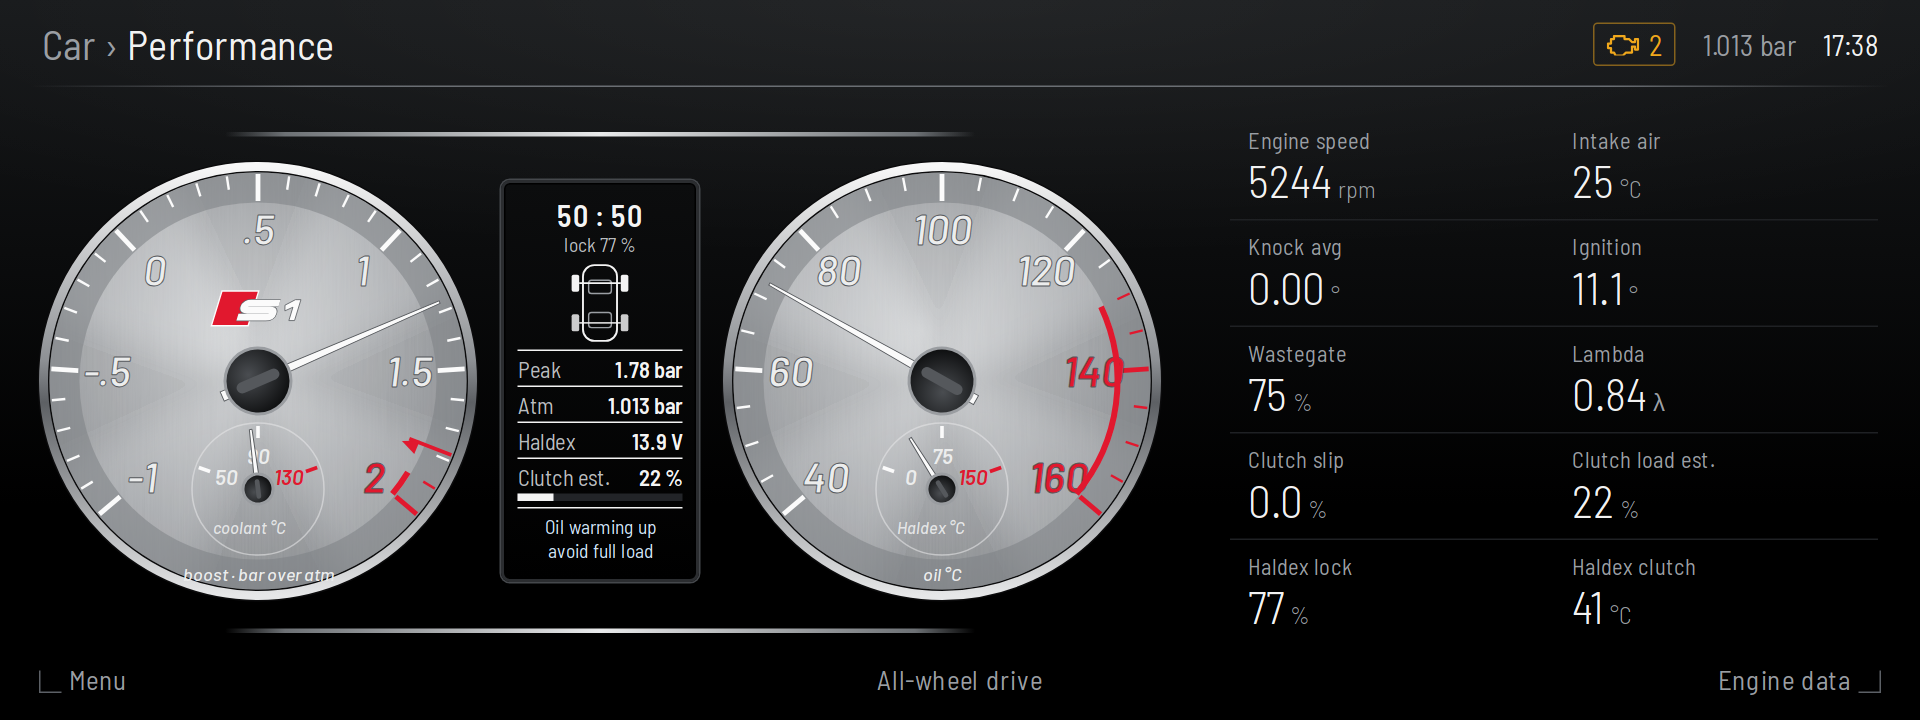
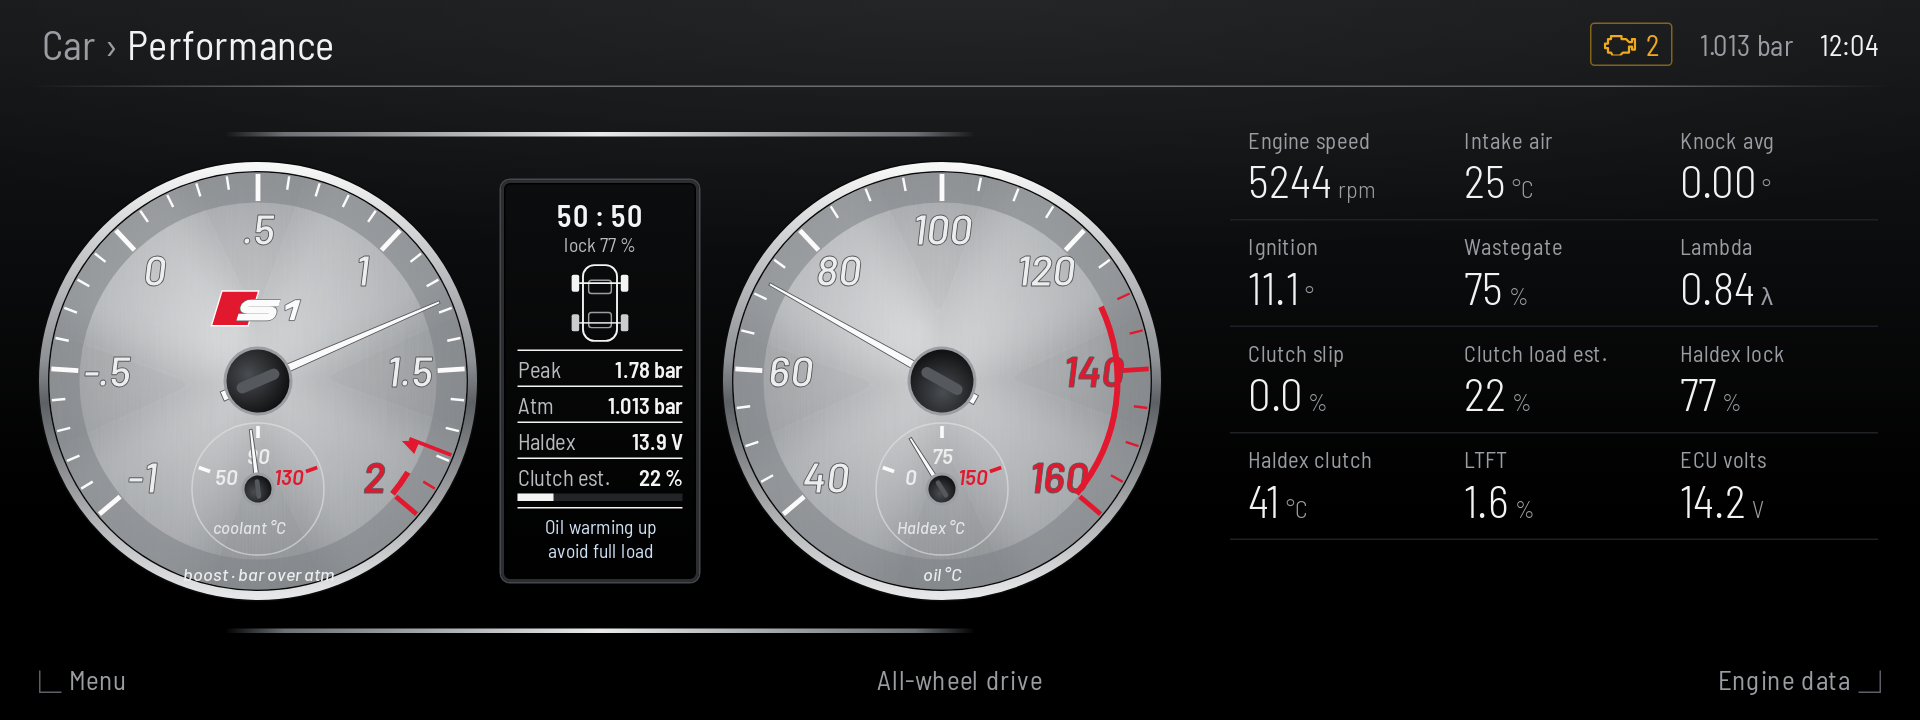
Fit any screen shape, add finer boost steps and show when SimosTools has the dongle
16:10 and 4:3 screens rendered wider than the screen, cutting off the right
dial, and tile panels scrolled on portrait and wide screens. It now uses the
largest size that fits both ways, with a manual Screen size setting.

The expected peak boost moves in 0.01 steps as well as 0.1. When SimosTools holds
the dongle the header says so, and S1 Dash stops retrying until it's free.

CI now syntax-checks the UI script, because a broken one still passes the unit
tests and builds an APK with a blank screen.

diff --git a/app/src/main/assets/ui/app.js b/app/src/main/assets/ui/app.js
@@ -9,7 +9,7 @@
 
   function demoBridge() {
     var settings = { theme: "s1", ohEnabled: "1", ohHost: "192.168.1.1", ecuAdapter: "bridge", ecuMac: "",
-      bridgeName: "BLE_TO_ISOTP20", dtcIndicator: "1", boostTarget: "1.8", demo: "1" };
+      bridgeName: "BLE_TO_ISOTP20", dtcIndicator: "1", boostTarget: "1.8", demo: "1", uiScale: "100" };
     try { var saved = JSON.parse(localStorage.getItem("s1demo") || "{}"); for (var k in saved) settings[k] = saved[k]; } catch (e) {}
     var q = location.search.replace("?", "").split("&");
     q.forEach(function (p) { var kv = p.split("="); if (kv[0] && kv[0] in settings) settings[kv[0]] = decodeURIComponent(kv[1] || ""); });
@@ -31,7 +31,7 @@
           torque: 60 + pull * 310, clutchSlip: demoSlip ? 8 : 0, clutchLoad: demoSlip ? 94 : 22, clutchWarn: demoSlip ? 1 : 0,
           hxMode: 2, hxLock: 30 + pull * 60, hxLockTarget: 30 + pull * 65, hxClutchTemp: Math.min(70, 30 + t * 0.15 + pull * 6),
           hxModuleTemp: 24, hxFinTemp: 22, hxVolts: 13.9, hxTempProt: 0, dtcEcu: 2, dtcHaldex: 0 };
-        return JSON.stringify({ v: v, s: { oh: "demo", ecu: /[?&]elm/.test(location.search) ? "connected (ELM327)" : "demo", ecuData: /[?&]elm/.test(location.search) ? "core" : undefined, ecuRate: /[?&]elm/.test(location.search) ? "3.2" : undefined },  peak: /[?&]still/.test(location.search) ? 1.78 : peak, logging: logging, t: Date.now() });
+        return JSON.stringify({ v: v, s: { oh: "demo", simos: /[?&]simos/.test(location.search) ? "connected" : undefined, ecu: /[?&]simos/.test(location.search) ? "in use by SimosTools" : /[?&]elm/.test(location.search) ? "connected (ELM327)" : "demo", ecuData: /[?&]elm/.test(location.search) ? "core" : undefined, ecuRate: /[?&]elm/.test(location.search) ? "3.2" : undefined },  peak: /[?&]still/.test(location.search) ? 1.78 : peak, logging: logging, t: Date.now() });
       },
       settings: function () { return JSON.stringify(settings); },
       setSetting: function (k, v) { settings[k] = v; try { localStorage.setItem("s1demo", JSON.stringify(settings)); } catch (e) {} },
@@ -77,36 +77,44 @@
   var snap = { v: {}, s: {}, peak: 0 };
   var MODES = ["Stock", "FWD", "50 : 50", "60 : 40", "75 : 25", "Expert"];
 
-  // ---------- stage scaling: 480 logical px tall in landscape, 800 wide in portrait ----------
+  // ---------- stage scaling: the largest size at which 800 x 480 logical px fits, then fill what's left ----------
   var W = 800, H = 480;
   function layout() {
-    var sw = window.innerWidth, sh = window.innerHeight, aspect = sw / sh, scale;
-    if (aspect >= 1.25) { H = 480; W = Math.max(800, Math.round(480 * aspect)); scale = sh / 480; }
-    else { W = 800; H = Math.max(480, Math.round(800 / aspect)); scale = sw / 800; }
+    var sw = window.innerWidth, sh = window.innerHeight;
+    if (!sw || !sh) return; // a WebView can report nothing until it's laid out; resize comes after
+    var scale = Math.min(sw / 800, sh / 480) * (parseInt(settings.uiScale, 10) || 100) / 100;
+    W = Math.floor(sw / scale); H = Math.floor(sh / scale);
     var st = $("stage");
     st.style.width = W + "px"; st.style.height = H + "px";
     st.style.transform = "scale(" + scale + ")";
     var cl = $("cluster"), stats = $("perf-stats");
     stats.className = "stats";
+    cl.style.top = (58 + Math.max(0, Math.round((H - 480) / 2))) + "px";
     if (W >= 1100) {
       cl.style.left = "0px";
       stats.className = "stats on";
       stats.style.cssText = "left:820px;right:28px;top:76px;bottom:54px;overflow-y:auto";
-      setTileWidth("perf-tiles", W - 848 > 520 ? "33.33%" : "50%");
-      if (current) pushFocus();
+      if ($("perf-tiles").children.length !== PERF_KEYS.length) buildTiles("perf-tiles", PERF_KEYS);
+      fitTiles("perf-tiles", W - 848, H - 130);
     } else if (H >= 700) {
       // Portrait or tall screens: the whole engine data set under the cluster.
       cl.style.left = Math.round((W - 800) / 2) + "px";
+      cl.style.top = "58px";
       stats.className = "stats on";
       stats.style.cssText = "left:28px;right:28px;top:450px;bottom:54px;overflow-y:auto";
       if ($("perf-tiles").children.length !== ENGINE_KEYS.length) buildTiles("perf-tiles", ENGINE_KEYS);
-      setTileWidth("perf-tiles", "33.33%");
-      if (current) pushFocus();
+      fitTiles("perf-tiles", W - 56, H - 504);
     } else {
       cl.style.left = Math.round((W - 800) / 2) + "px";
-      if (current) pushFocus();
     }
+    if (current) pushFocus();
     setTileWidth("eng-tiles", W >= 1300 ? "20%" : W >= 1000 ? "25%" : H >= 700 ? "33.33%" : "25%");
+  }
+  // Enough columns that all the tiles fit, unless they'd get too narrow to read.
+  function fitTiles(id, w, h) {
+    var n = $(id).children.length, cols = 2;
+    while (Math.ceil(n / cols) * TILE_H > h && w / (cols + 1) >= TILE_MIN_W) cols++;
+    setTileWidth(id, (100 / cols).toFixed(2) + "%");
   }
   function setTileWidth(id, w) {
     var t = $(id).children;
@@ -277,6 +285,7 @@
   var ENGINE_KEYS = ["boost", "map", "mapSp", "ambient", "rpm", "iat", "coolant", "oil", "knockAvg", "knock1", "knock2", "knock3", "knock4",
     "timing", "wastegate", "put", "afr", "lambda", "stft", "ltft", "fpDi", "fpMpi", "pedal", "battery", "ecuSpeed", "gear", "torque", "clutchSlip", "clutchLoad", "misfires", "turbo",
     "hxLock", "hxLockTarget", "hxClutchTemp", "hxModuleTemp", "hxVolts"];
+  var TILE_H = 72, TILE_MIN_W = 140;
   var PERF_KEYS = ["rpm", "iat", "knockAvg", "timing", "wastegate", "lambda", "clutchSlip", "clutchLoad", "hxLock", "hxClutchTemp", "ltft", "battery"];
 
   function buildTiles(id, keys) {
@@ -383,6 +392,9 @@
     var total = dtcTotal(), show = settings.dtcIndicator === "1" && total;
     var dt = document.querySelectorAll(".dtc");
     for (i = 0; i < dt.length; i++) { dt[i].className = "dtc" + (show ? " show" : ""); dt[i].innerHTML = show ? DTC_ICON + total : ""; }
+    var st = snap.s.simos ? "SimosTools connected" : snap.s.ecu === "paused for SimosTools" ? "SimosTools open" : "";
+    var si = document.querySelectorAll(".simos");
+    for (i = 0; i < si.length; i++) { si[i].textContent = st; si[i].style.display = st ? "block" : "none"; }
     var amb = document.querySelectorAll(".amb"), a = snap.v.ambientBar;
     for (i = 0; i < amb.length; i++) amb[i].textContent = a !== undefined ? a.toFixed(3) + " bar" : "";
   }
@@ -576,8 +588,11 @@
       return '<div class="row" data-set="' + key + '" data-val="' + (on ? "0" : "1") + '"><span class="box' + (on ? " on" : "") + '"></span>' + label + (sub ? '<span class="sub">' + sub + "</span>" : "") + "</div>";
     }
     h += '<div class="row head">Display theme</div>' + radio("theme", "s1", "S1 cluster", "silver") + radio("theme", "quattro", "A1 quattro", "red / black") + radio("theme", "mmi", "MMI black");
+    h += '<div class="row head">Screen size</div>' + radio("uiScale", "100", "Auto fit", "largest that fits this screen") +
+      radio("uiScale", "90", "90 %") + radio("uiScale", "80", "80 %", "more data on bigger screens") + radio("uiScale", "70", "70 %");
     h += '<div class="row head">Dials</div>' + toggle("dtcIndicator", "Fault code indicator", "amber engine light in the header") +
-      '<div class="row">Expected peak boost<span class="val">' + settings.boostTarget + ' bar</span><span class="btn" id="bt-down">−</span><span class="btn" id="bt-up">+</span></div>';
+      '<div class="row">Expected peak boost<span class="val">' + (parseFloat(settings.boostTarget) || 1.8).toFixed(2) + ' bar</span>' +
+      [-0.1, -0.01, 0.01, 0.1].map(function (d) { return '<span class="btn" data-step="' + d + '">' + (d < 0 ? "−" : "+") + Math.abs(d) + "</span>"; }).join("") + "</div>";
     var gears = [];
     try { gears = JSON.parse(B.clutchInfo()).gears; } catch (e) {}
     h += '<div class="row head">Clutch estimate (manual gearbox, no real sensor)</div>' +
@@ -599,15 +614,16 @@
       var k = this.getAttribute("data-set"), val = this.getAttribute("data-val");
       B.setSetting(k, val); settings[k] = val;
       if (k === "theme" || k === "boostTarget") buildDials();
+      if (k === "uiScale") layout();
       renderSettings();
     };
     $("oh-host").onchange = function () { B.setSetting("ohHost", this.value.trim()); };
     function stepBoost(d) {
-      var x = Math.max(0.5, Math.min(1.9, Math.round(((parseFloat(settings.boostTarget) || 1.8) + d) * 10) / 10));
-      B.setSetting("boostTarget", x.toFixed(1)); settings.boostTarget = x.toFixed(1); buildDials(); renderSettings();
+      var x = Math.max(0.5, Math.min(1.9, Math.round(((parseFloat(settings.boostTarget) || 1.8) + d) * 100) / 100));
+      B.setSetting("boostTarget", x.toFixed(2)); settings.boostTarget = x.toFixed(2); buildDials(); renderSettings();
     }
-    $("bt-down").onclick = function (e) { e.stopPropagation(); stepBoost(-0.1); };
-    $("bt-up").onclick = function (e) { e.stopPropagation(); stepBoost(0.1); };
+    var steps = document.querySelectorAll("#set-list [data-step]");
+    for (i = 0; i < steps.length; i++) steps[i].onclick = function (e) { e.stopPropagation(); stepBoost(parseFloat(this.getAttribute("data-step"))); };
     $("pick-dev").onclick = function (e) { e.stopPropagation(); pickDevice(); };
     $("clear-dev").onclick = function (e) { e.stopPropagation(); B.setSetting("ecuMac", ""); renderSettings(); };
     $("set-simos").onclick = openSimos;
@@ -674,6 +690,10 @@
   }
 
   // ---------- start ----------
+  (function () {
+    var h = document.querySelectorAll(".hdr .status");
+    for (var i = 0; i < h.length; i++) { var p = document.createElement("span"); p.className = "simos"; h[i].insertBefore(p, h[i].firstChild); }
+  })();
   buildDials();
   buildModes();
   buildTiles("eng-tiles", ENGINE_KEYS);

diff --git a/app/src/main/assets/ui/app.css b/app/src/main/assets/ui/app.css
@@ -45,6 +45,7 @@ html, body { margin: 0; height: 100%; overflow: hidden; background: #000; color:
   border: 1px solid rgba(240,168,28,.5); border-radius: 3px; }
 .dtc.show { display: flex; }
 .dtc svg { margin-right: 6px; }
+.simos { display: none; color: var(--blue); font-size: 17px; padding: 2px 8px; border: 1px solid rgba(74,143,214,.6); border-radius: 3px; white-space: nowrap; }
 
 .sk { position: absolute; font-size: 18px; color: var(--text-dim); letter-spacing: .03em; padding: 6px 0; }
 .sk:active { color: #fff; }
@@ -58,9 +59,9 @@ html, body { margin: 0; height: 100%; overflow: hidden; background: #000; color:
 
 /* MMI list */
 .list { position: absolute; left: 28px; right: 40px; top: 72px; bottom: 54px; overflow-y: auto; -webkit-overflow-scrolling: touch; }
-.list::-webkit-scrollbar { width: 3px; }
-.list::-webkit-scrollbar-track { background: #26282b; }
-.list::-webkit-scrollbar-thumb { background: #c9ccd0; }
+.list::-webkit-scrollbar, .grid::-webkit-scrollbar, .stats::-webkit-scrollbar { width: 3px; }
+.list::-webkit-scrollbar-track, .grid::-webkit-scrollbar-track, .stats::-webkit-scrollbar-track { background: #26282b; }
+.list::-webkit-scrollbar-thumb, .grid::-webkit-scrollbar-thumb, .stats::-webkit-scrollbar-thumb { background: #c9ccd0; }
 .row { min-height: 52px; display: flex; align-items: center; padding: 0 16px; font-size: 23px;
   border-bottom: 1px solid #1f2124; position: relative; border-left: 1px solid transparent; border-right: 1px solid transparent; }
 .row.head { min-height: 40px; font-size: 16px; color: var(--text-dim); letter-spacing: .06em; text-transform: uppercase; padding-top: 10px; border-bottom-color: #2c2f33; }

diff --git a/app/src/main/java/com/louij2/s1dash/EcuPoller.kt b/app/src/main/java/com/louij2/s1dash/EcuPoller.kt
@@ -71,6 +71,14 @@ class EcuPoller(
             try {
                 var t = transport
                 if (t == null) {
+                    // SimosTools has it, maybe logging. Say so and leave it alone rather than keep trying.
+                    if (adapter == "bridge" && IsoTpBleTransport.heldElsewhere(ctx, mac, bridgeName)) {
+                        DataHub.status["ecu"] = "in use by SimosTools"
+                        DataHub.status["simos"] = "connected"
+                        Thread.sleep(5000)
+                        continue
+                    }
+                    DataHub.status.remove("simos")
                     DataHub.status["ecu"] = "connecting"
                     t = if (adapter == "bridge") IsoTpBleTransport(ctx, mac, bridgeName) else ElmSppTransport(ctx, mac)
                     if (!t.open()) {
@@ -119,6 +127,7 @@ class EcuPoller(
         }
         transport?.close()
         transport = null
+        DataHub.status.remove("simos")
         DataHub.dropEcuValues()
     }
 

diff --git a/app/src/main/java/com/louij2/s1dash/IsoTpBleTransport.kt b/app/src/main/java/com/louij2/s1dash/IsoTpBleTransport.kt
@@ -169,6 +169,12 @@ class IsoTpBleTransport(
     }
 
     companion object {
+        /** Android knows when another app on this device holds the dongle: it stops advertising, so a scan can't tell. */
+        fun heldElsewhere(ctx: Context, mac: String, name: String): Boolean = try {
+            (ctx.getSystemService(Context.BLUETOOTH_SERVICE) as BluetoothManager).getConnectedDevices(BluetoothProfile.GATT)
+                .any { (mac.isNotBlank() && it.address.equals(mac.trim(), true)) || it.name == name }
+        } catch (_: Exception) { false }
+
         val SERVICE: UUID = UUID.fromString("0000abf0-0000-1000-8000-00805f9b34fb")
         val DATA_TX: UUID = UUID.fromString("0000abf1-0000-1000-8000-00805f9b34fb")
         val DATA_RX: UUID = UUID.fromString("0000abf2-0000-1000-8000-00805f9b34fb")

diff --git a/app/src/main/java/com/louij2/s1dash/MainActivity.kt b/app/src/main/java/com/louij2/s1dash/MainActivity.kt
@@ -36,6 +36,10 @@ class MainActivity : Activity() {
         web.setBackgroundColor(0xFF000000.toInt())
         web.settings.javaScriptEnabled = true
         web.settings.domStorageEnabled = true
+        web.settings.textZoom = 100 // the phone's font size setting would break the fixed layout
+        web.isVerticalScrollBarEnabled = false
+        web.isHorizontalScrollBarEnabled = false
+        web.overScrollMode = View.OVER_SCROLL_NEVER
         web.webViewClient = WebViewClient()
         web.webChromeClient = WebChromeClient()
         web.addJavascriptInterface(Bridge(), "S1")

diff --git a/app/src/main/java/com/louij2/s1dash/DataHub.kt b/app/src/main/java/com/louij2/s1dash/DataHub.kt
@@ -48,6 +48,7 @@ object DataHub {
         "dtcIndicator" to "1",
         "boostTarget" to "1.8",       // expected peak boost, bar, marked on the dial
         "demo" to "0",
+        "uiScale" to "100",           // percent of the largest size that fits the screen
     )
 
     fun init(ctx: Context) {

diff --git a/README.md b/README.md
@@ -35,7 +35,7 @@ as OEM+.
 |---|---|---|
 | ![](docs/screens/flash-checks.png) | ![](docs/screens/flash-handoff.png) | ![](docs/screens/flash-health.png) |
 
-Portrait screens stack the full engine data set under the dials:
+[Tablet, 16:10](docs/screens/perf-tablet.png). Portrait screens stack the full engine data set under the dials:
 [A1 quattro theme, 1080×1920](docs/screens/perf-portrait.png). Themes: **S1 cluster**, **A1 quattro**, **MMI black**.
 
 ## Android Auto (experimental)
@@ -59,8 +59,9 @@ One APK for all of them (Android 9 and newer):
 - **Carlinkit T-Box style boxes** (Android 13), which can hold several Bluetooth links at once.
 - **Big replacement screens** (10", 13", landscape or portrait) and **phones** mirrored to the car's screen.
 
-The UI is laid out for 480 logical pixels of height and scales to the screen.
-Wider screens get an extra column of engine data, and portrait screens stack it under the dials.
+The UI picks the largest size that fits the screen, whatever its shape. Wider screens get an
+extra column of engine data, and portrait screens stack it under the dials. If the edges are
+hidden, or you'd like more on screen, **Settings › Screen size** makes it smaller.
 
 ## Where the data comes from
 

diff --git a/docs/DESIGN.md b/docs/DESIGN.md
@@ -11,9 +11,10 @@ runs on all of them from one APK (minSdk 28, Android 9):
 3. Replacement 10" / 13" Android screen, landscape or portrait, or a phone mirrored to the screen
 ```
 
-The UI is laid out at 480 logical pixels tall in landscape (800 wide in
-portrait) and scaled to fit. Wide screens get an extra column of engine data
-beside the dials; tall screens stack it under them.
+The UI is scaled to the largest size at which 800 x 480 logical pixels fit the
+screen, then fills the rest. Wide screens get an extra column of engine data
+beside the dials; tall screens stack it under them, in as many columns as it
+takes to fit. Settings can shrink it to 90, 80 or 70 %.
 
 ## How it is built
 
